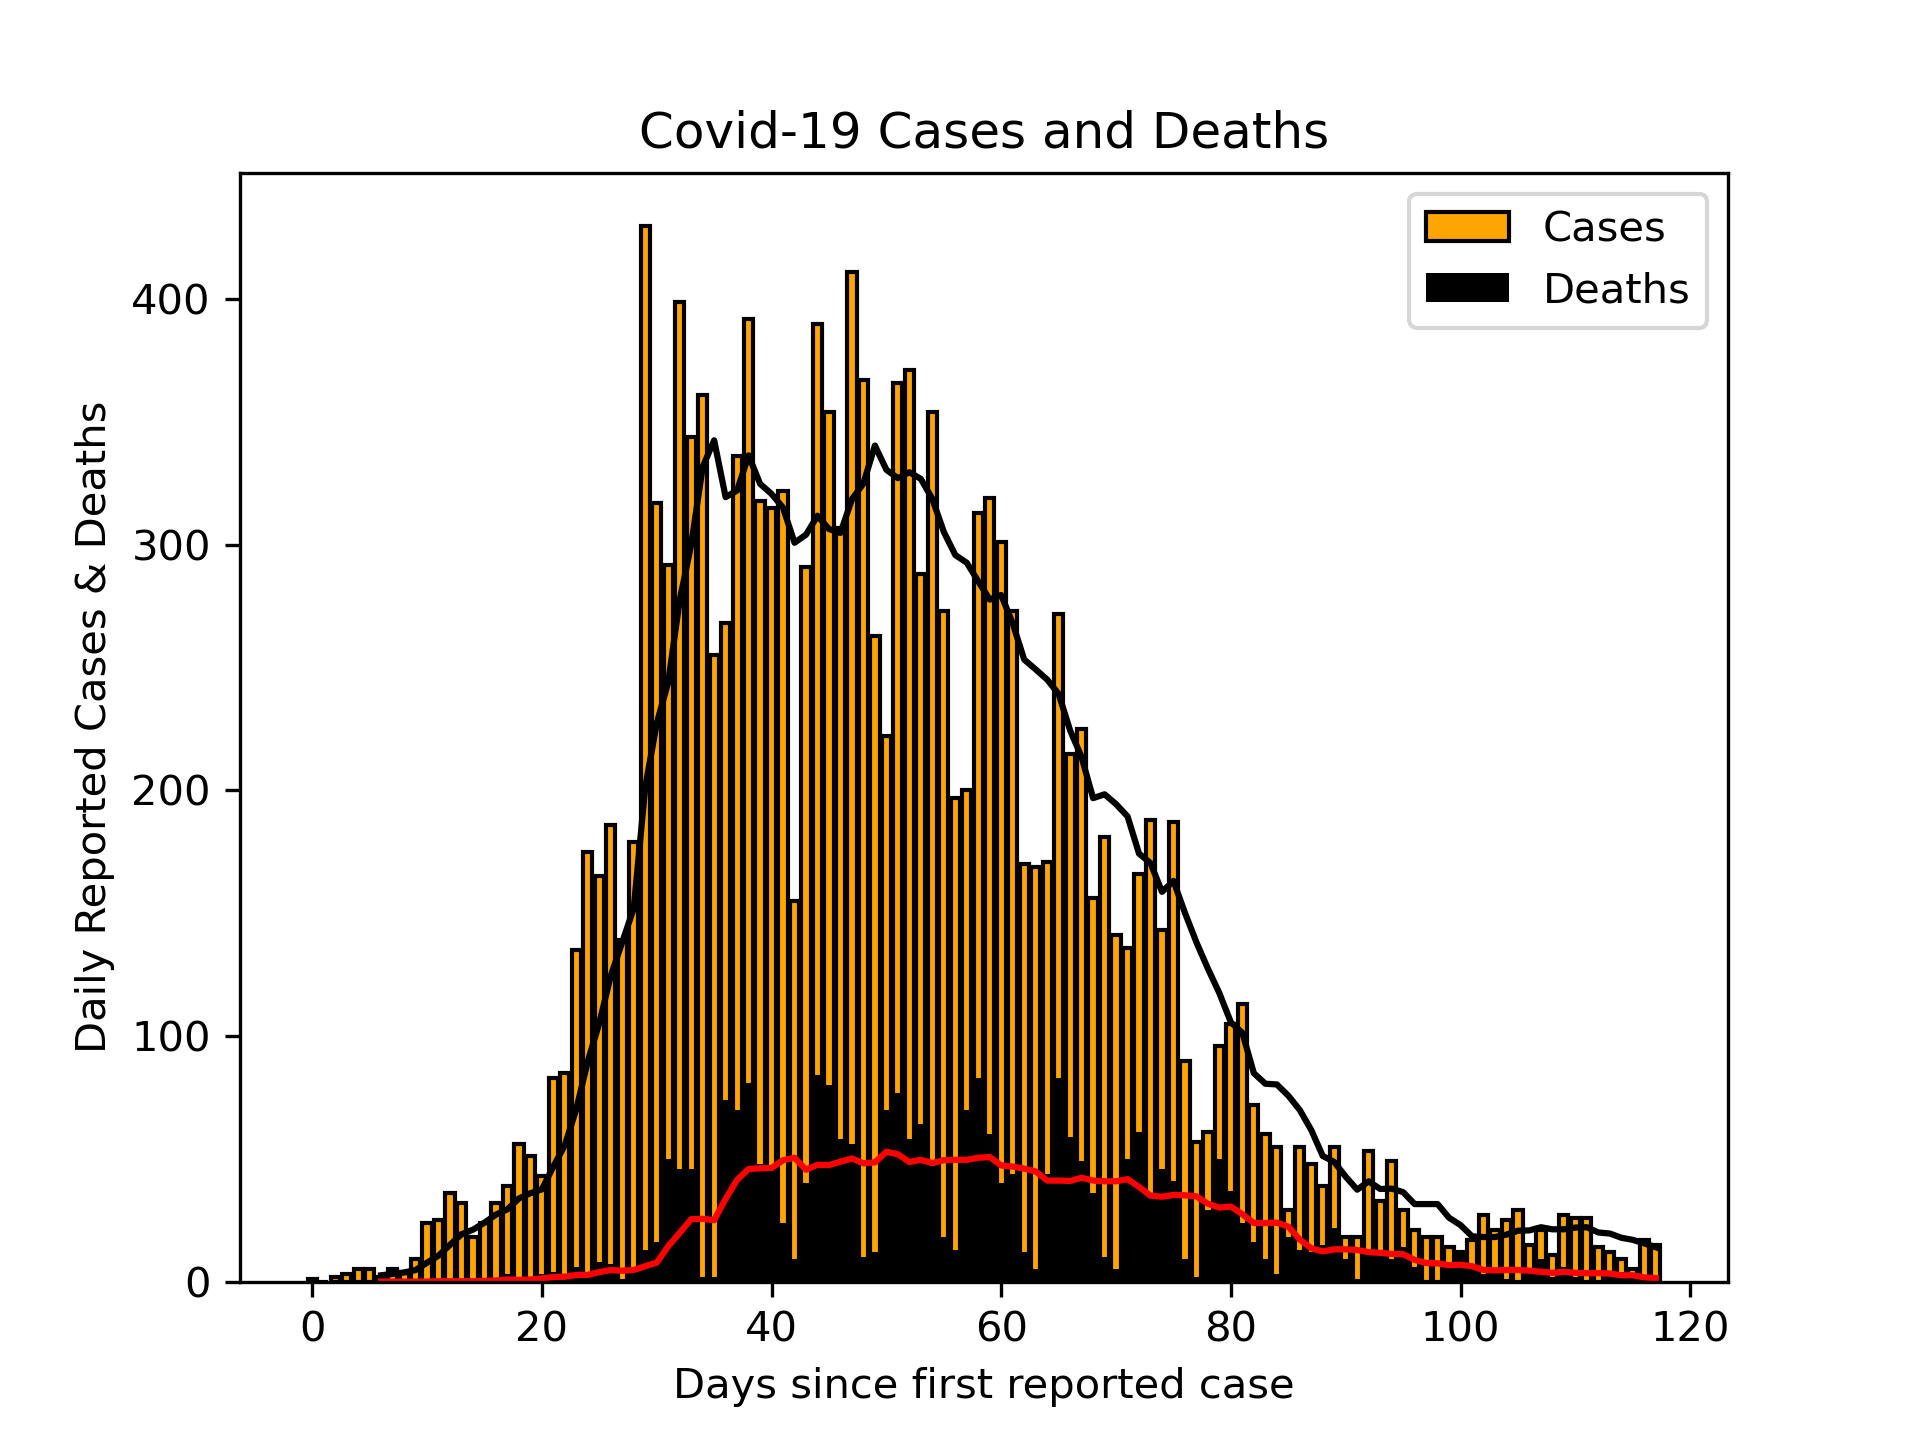
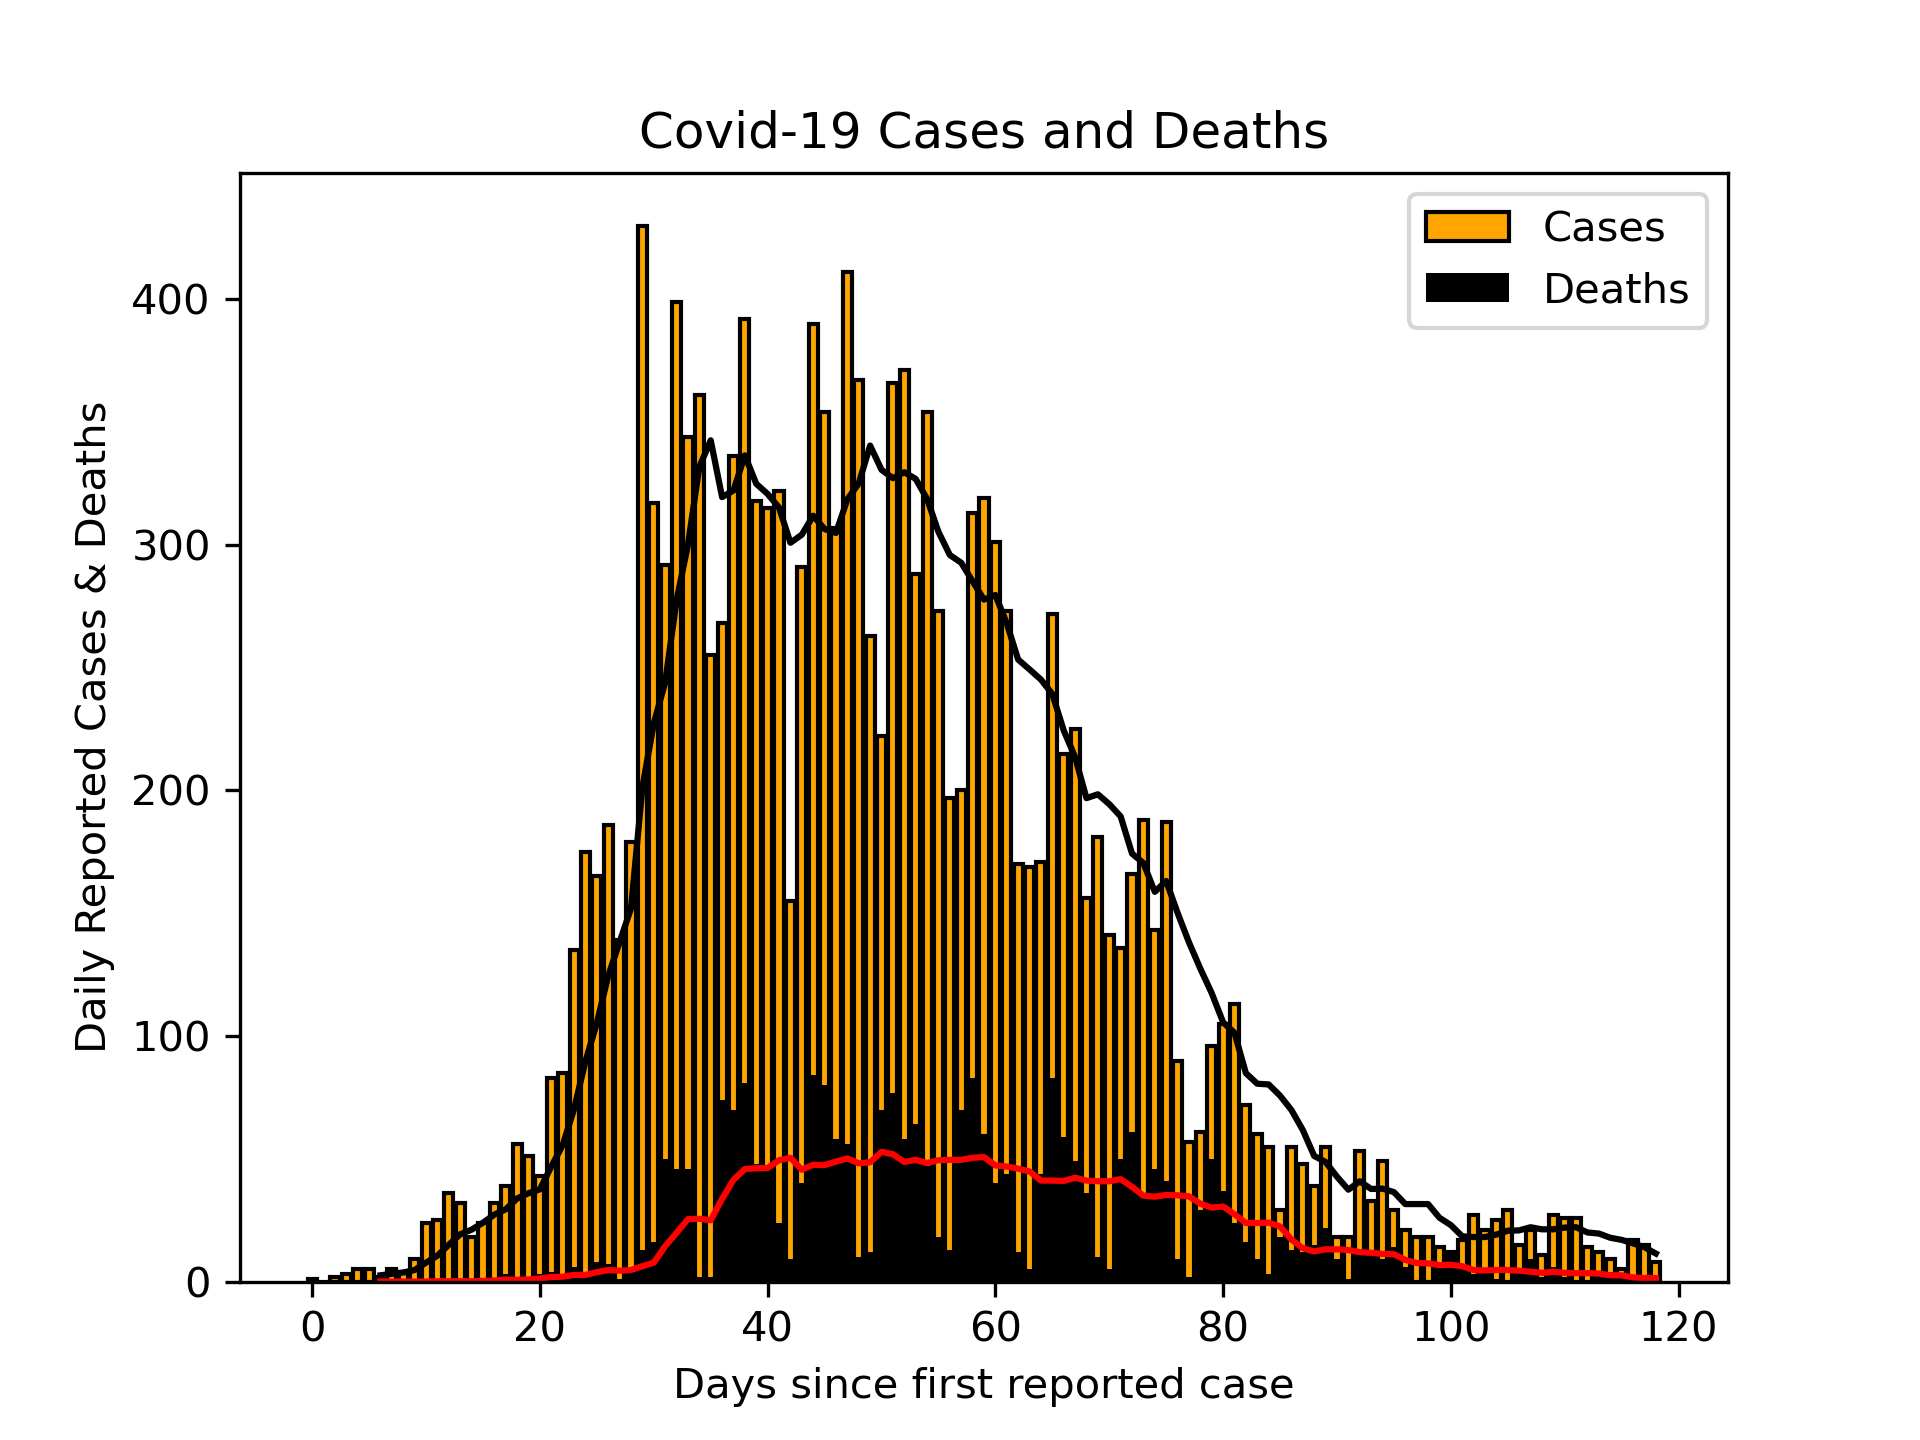
Updated Scottish and UK cases 28/06/20

diff --git a/README.md b/README.md
@@ -1,5 +1,5 @@
-# Scottish Cases 27/06/20
+# Scottish Cases 28/06/20
 ![alt](scottish_cases.png)
 
-# UK Cases 27/06/20
+# UK Cases 28/06/20
 ![alt](uk_cases.png)
